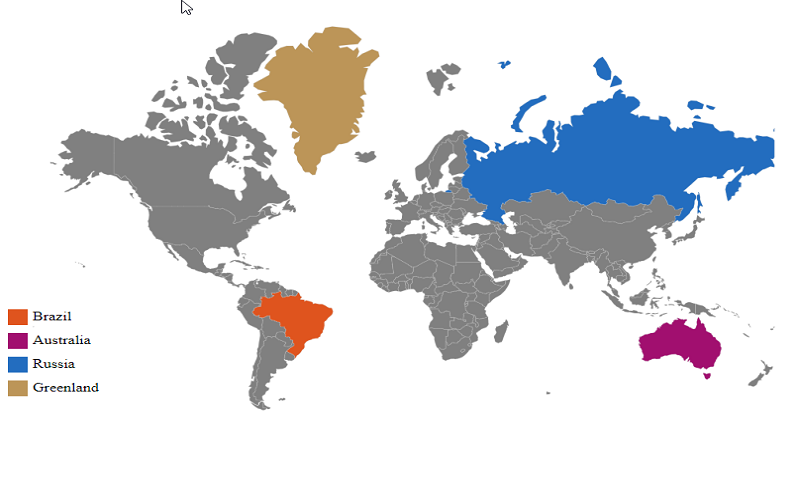
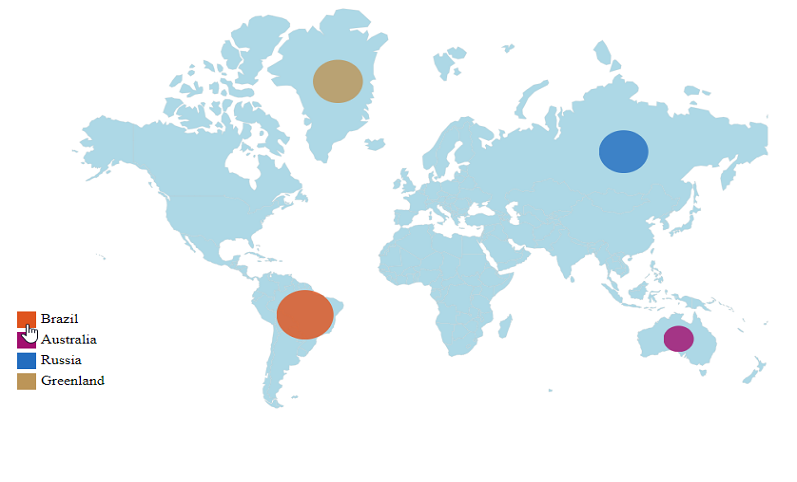
bubble legend image has been added.

diff --git a/js/Maps/Map-Elements.md b/js/Maps/Map-Elements.md
@@ -384,11 +384,11 @@ You can select a specific shapes or bubbles while clicking on the corresponding 
 
 ![](/js/Maps/Map-Elements_images/Map-Elements_img9.png)
 
-Map with shapes and legend items, before toggle.
+Map with bubble and legend items, before toggle.
 
 ![](/js/Maps/Map-Elements_images/Map-Elements_img10.png)
 
-After toggle the visibility of Australia shape
+After toggle the visibility of Brazil legend item
 
 ### Interactive Legend
 
